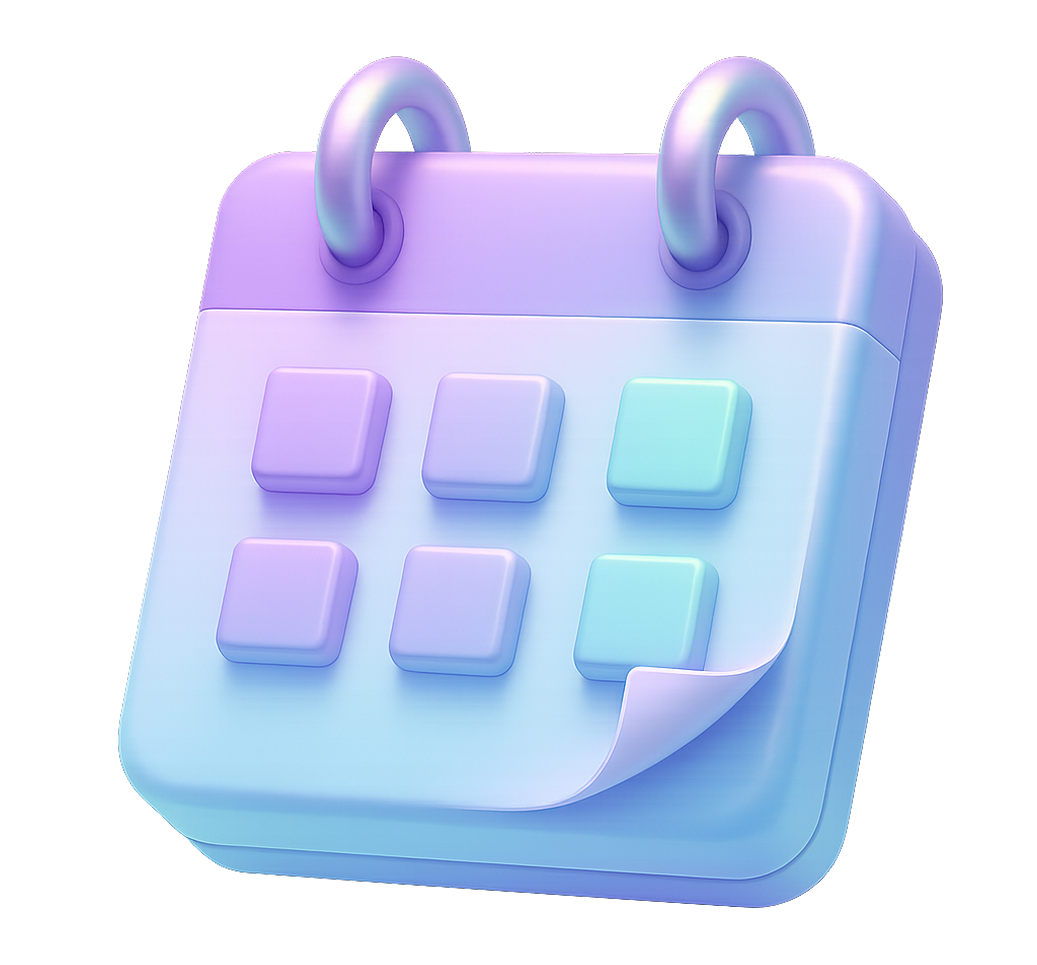
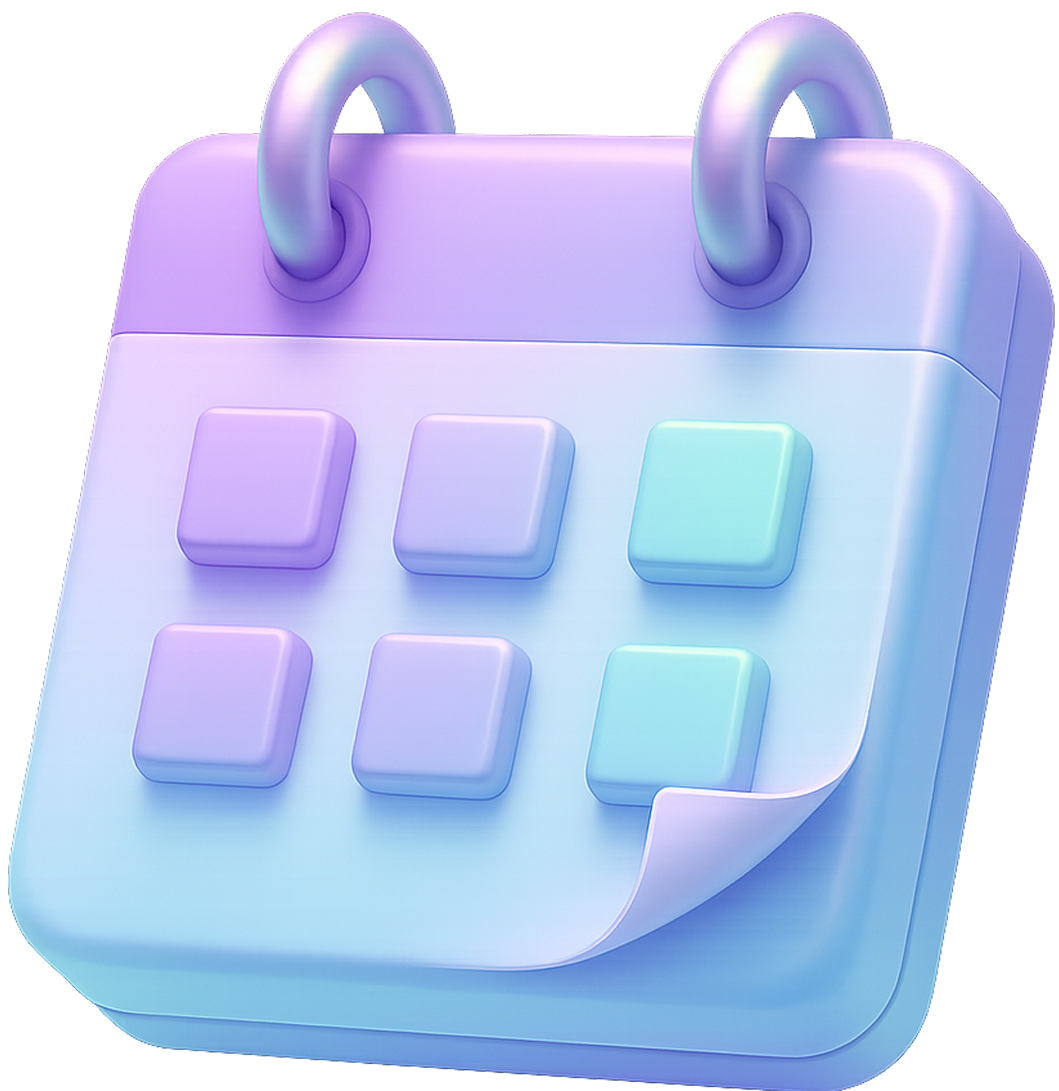
feat: hero section upper part done hero section positioning rebuild with usage of "position relative", unnecessary divs were removed, minor style updates like font color , size and weight were applied

diff --git a/src/index.css b/src/index.css
@@ -1,16 +1,22 @@
 @import "tailwindcss";
+
 @tailwind utilities;
 {
   margin: 0;
-  font-family: -apple-system, BlinkMacSystemFont, 'Segoe UI', 'Roboto', 'Oxygen',
-    'Ubuntu', 'Cantarell', 'Fira Sans', 'Droid Sans', 'Helvetica Neue',
-    sans-serif;
+  font-family: 'Inter', -apple-system, BlinkMacSystemFont,
+  'Segoe UI', 'Roboto', 'Oxygen',
+  'Ubuntu', 'Cantarell', 'Fira Sans',
+  'Droid Sans', 'Helvetica Neue', sans-serif;
   -webkit-font-smoothing: antialiased;
   -moz-osx-font-smoothing: grayscale;
 
 ;
 }
-
+@layer base {
+  html {
+    font-family: 'Inter', sans-serif;
+  }
+}
 code {
   font-family: source-code-pro, Menlo, Monaco, Consolas, 'Courier New',
     monospace;

diff --git a/src/pages/Landing/HeroSection.jsx b/src/pages/Landing/HeroSection.jsx
@@ -1,0 +1,14 @@
+import BgRectangle from '@/assets/imgs/heroBackgroundRectangle.png';
+import HomeButton from "@/shared/ui/HomeButton";
+
+export default function HeroSection(props) {
+    return (
+    <div className="w-[94%] w-max-screen px-5 bg-contain bg-no-repeat bg-center aspect-[23/10] mt-20"
+         style={{ backgroundImage: `url(${BgRectangle})` }}>
+                <HomeButton></HomeButton>
+                <h1 className="text-8xl relative left-1/6 bottom-1/6 font-inter font-medium text-[#638B9D] w-1/3">ClassMate</h1>
+            <img src="src/assets/imgs/calendarImg.png" alt="" className="w-3/10 relative left-260 bottom-1/2" />
+    </div>
+
+    )
+}

diff --git a/index.html b/index.html
@@ -1,6 +1,11 @@
+
+
 <!DOCTYPE html>
 <html lang="en">
 <head>
+  <link rel="preconnect" href="https://fonts.googleapis.com">
+  <link rel="preconnect" href="https://fonts.gstatic.com" crossorigin>
+  <link href="https://fonts.googleapis.com/css2?family=Inter:ital,opsz,wght@0,14..32,100..900;1,14..32,100..900&display=swap" rel="stylesheet">
   <meta charset="UTF-8" />
   <meta name="viewport" content="width=device-width, initial-scale=1.0" />
   <title>React + Vite</title>

diff --git a/src/shared/ui/HomeButton.jsx b/src/shared/ui/HomeButton.jsx
@@ -1,0 +1,11 @@
+import homeIcon from "@/assets/imgs/material-symbols_home-outline-rounded.png"
+
+
+export default function HomeButton(){
+    return (
+        <button className="flex items-center justify-center w-3/27 bg-white rounded-2xl
+        h-3/14 left-1 relative">
+            <img src="src/assets/imgs/material-symbols_home-outline-rounded.png"
+                 alt="" className="w-1/4"/></button>
+    )
+}

diff --git a/src/pages/Landing/Landing.jsx b/src/pages/Landing/Landing.jsx
@@ -1,5 +1,5 @@
 import NavBar from "../../shared/ui/NavBar";
-import HeroSection from "../../shared/ui/HeroSection";
+import HeroSection from "./HeroSection";
 export default function Landing() {
     return (
         <div className="flex flex-col items-center justify-center">

diff --git a/tailwind.config.js b/tailwind.config.js
@@ -4,7 +4,11 @@ export default {
         "./src/**/*.{js,jsx,ts,tsx}",
     ],
     theme: {
-        extend: {},
+        extend: {
+            fontFamily: {
+                inter: ['Inter', 'sans-serif']
+            },
+        },
     },
     plugins: [],
 };
